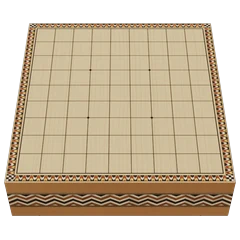
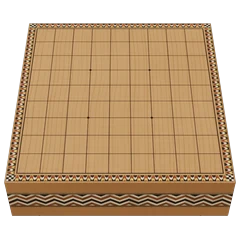
将棋3D盤：寄木細工の盤面を駒台と同じ桂の色味に
Claude-Session: https://claude.ai/code/session_01EiWRAWLV8eg6m15v5x8gee

diff --git a/atlas/lazy.js b/atlas/lazy.js
@@ -5,7 +5,7 @@
      AtlasLazy.has3D(id) / hasPlay(id) / hasRules(id) — known before loading; AtlasLazy.loaded(id) */
 (function () {
 'use strict';
-const G = {"reversi": ["games/reversi.js?v=36", "rules/reversi.js?v=14"], "shogi": ["models/shogi.js?v=36", "games/shogi-play.js?v=32", "games/shogi.js?v=14", "rules/shogi.js?v=21"], "chess": ["models/chess.js?v=16", "games/chess.js?v=15", "rules/chess.js?v=7"], "backgammon": ["models/backgammon.js?v=118", "games/backgammon.js?v=22", "rules/backgammon.js?v=11"], "gomoku": ["models/goban.js?v=14", "games/gomoku.js?v=12", "rules/gomoku.js?v=9"], "go": ["models/goban.js?v=14", "games/go.js?v=7", "rules/go.js?v=7"], "hex": ["models/goban.js?v=14", "models/hex.js?v=2", "games/hex.js?v=6", "rules/hex.js?v=6"], "tafl": ["games/tafl.js?v=15", "rules/tafl.js?v=7"], "xiangqi": ["models/xiangqi.js?v=4", "games/xiangqi.js?v=13", "rules/xiangqi.js?v=6"], "janggi": ["models/xiangqi.js?v=4", "models/janggi.js?v=3", "games/janggi.js?v=5", "rules/janggi.js?v=2"], "checkers": ["models/checkers.js?v=17", "games/checkers.js?v=8", "rules/checkers.js?v=4"], "ugolki": ["models/checkers.js?v=17", "models/ugolki.js?v=4", "games/ugolki.js?v=8", "rules/ugolki.js?v=8"], "morris": ["models/morris.js?v=7", "games/morris-pieces.js?v=2", "games/morris.js?v=7", "rules/morris.js?v=5"], "connect4": ["models/connect4.js?v=5", "games/connect4-tiles.js?v=1", "games/connect4.js?v=5", "rules/connect4.js?v=3"], "mancala": ["models/mancala.js?v=5", "games/mancala.js?v=10", "rules/mancala.js?v=4"], "dots": ["models/dots.js?v=4", "games/dots.js?v=9", "rules/dots.js?v=3"], "ur": ["models/ur-dice.js?v=2", "models/ur.js?v=4", "games/ur-kit.js?v=15", "games/ur.js?v=10", "rules/ur.js?v=15"], "fanorona": ["models/fanorona.js?v=4", "games/fanorona.js?v=6", "rules/fanorona.js?v=8"], "konane": ["models/konane.js?v=7", "games/konane.js?v=11", "rules/konane.js?v=5"], "amazons": ["models/amazons.js?v=7", "games/amazons.js?v=10", "rules/amazons.js?v=4"], "senet": ["models/ur-dice.js?v=2", "models/senet.js?v=10", "games/senet-kit.js?v=5", "games/senet.js?v=15", "rules/senet.js?v=7"], "agon": ["models/agon.js?v=4", "games/agon.js?v=11", "rules/agon.js?v=5"], "alquerque": ["models/alquerque.js?v=3", "rules/alquerque.js?v=6"], "ludo": ["../ludo/engine.js?v=3", "../ludo/house.js?v=7", "../ludo/board2d.js?v=7", "../ludo/board-art.js?v=3", "models/ludo.js?v=10", "games/ludo.js?v=28", "rules/ludo.js?v=3"], "carrom": ["../carrom/engine.js?v=6", "models/carrom.js?v=17", "games/carrom.js?v=37", "rules/carrom.js?v=8"], "crokinole": ["../carrom/engine.js?v=6", "games/carrom.js?v=37", "../crokinole/engine.js?v=3", "models/crokinole.js?v=12", "games/crokinole.js?v=14", "rules/crokinole.js?v=4"], "hockey": ["../hockey/engine.js?v=13", "models/hockey.js?v=8", "games/hockey.js?v=19", "rules/hockey.js?v=7"], "peg": ["../peg/engine.js?v=1", "models/peg.js?v=4", "rules/peg.js?v=4"]};
+const G = {"reversi": ["games/reversi.js?v=36", "rules/reversi.js?v=14"], "shogi": ["models/shogi.js?v=37", "games/shogi-play.js?v=32", "games/shogi.js?v=14", "rules/shogi.js?v=21"], "chess": ["models/chess.js?v=16", "games/chess.js?v=15", "rules/chess.js?v=7"], "backgammon": ["models/backgammon.js?v=118", "games/backgammon.js?v=22", "rules/backgammon.js?v=11"], "gomoku": ["models/goban.js?v=14", "games/gomoku.js?v=12", "rules/gomoku.js?v=9"], "go": ["models/goban.js?v=14", "games/go.js?v=7", "rules/go.js?v=7"], "hex": ["models/goban.js?v=14", "models/hex.js?v=2", "games/hex.js?v=6", "rules/hex.js?v=6"], "tafl": ["games/tafl.js?v=15", "rules/tafl.js?v=7"], "xiangqi": ["models/xiangqi.js?v=4", "games/xiangqi.js?v=13", "rules/xiangqi.js?v=6"], "janggi": ["models/xiangqi.js?v=4", "models/janggi.js?v=3", "games/janggi.js?v=5", "rules/janggi.js?v=2"], "checkers": ["models/checkers.js?v=17", "games/checkers.js?v=8", "rules/checkers.js?v=4"], "ugolki": ["models/checkers.js?v=17", "models/ugolki.js?v=4", "games/ugolki.js?v=8", "rules/ugolki.js?v=8"], "morris": ["models/morris.js?v=7", "games/morris-pieces.js?v=2", "games/morris.js?v=7", "rules/morris.js?v=5"], "connect4": ["models/connect4.js?v=5", "games/connect4-tiles.js?v=1", "games/connect4.js?v=5", "rules/connect4.js?v=3"], "mancala": ["models/mancala.js?v=5", "games/mancala.js?v=10", "rules/mancala.js?v=4"], "dots": ["models/dots.js?v=4", "games/dots.js?v=9", "rules/dots.js?v=3"], "ur": ["models/ur-dice.js?v=2", "models/ur.js?v=4", "games/ur-kit.js?v=15", "games/ur.js?v=10", "rules/ur.js?v=15"], "fanorona": ["models/fanorona.js?v=4", "games/fanorona.js?v=6", "rules/fanorona.js?v=8"], "konane": ["models/konane.js?v=7", "games/konane.js?v=11", "rules/konane.js?v=5"], "amazons": ["models/amazons.js?v=7", "games/amazons.js?v=10", "rules/amazons.js?v=4"], "senet": ["models/ur-dice.js?v=2", "models/senet.js?v=10", "games/senet-kit.js?v=5", "games/senet.js?v=15", "rules/senet.js?v=7"], "agon": ["models/agon.js?v=4", "games/agon.js?v=11", "rules/agon.js?v=5"], "alquerque": ["models/alquerque.js?v=3", "rules/alquerque.js?v=6"], "ludo": ["../ludo/engine.js?v=3", "../ludo/house.js?v=7", "../ludo/board2d.js?v=7", "../ludo/board-art.js?v=3", "models/ludo.js?v=10", "games/ludo.js?v=28", "rules/ludo.js?v=3"], "carrom": ["../carrom/engine.js?v=6", "models/carrom.js?v=17", "games/carrom.js?v=37", "rules/carrom.js?v=8"], "crokinole": ["../carrom/engine.js?v=6", "games/carrom.js?v=37", "../crokinole/engine.js?v=3", "models/crokinole.js?v=12", "games/crokinole.js?v=14", "rules/crokinole.js?v=4"], "hockey": ["../hockey/engine.js?v=13", "models/hockey.js?v=8", "games/hockey.js?v=19", "rules/hockey.js?v=7"], "peg": ["../peg/engine.js?v=1", "models/peg.js?v=4", "rules/peg.js?v=4"]};
 const F = {"reversi": {"t3": true, "play": true, "rules": true}, "shogi": {"t3": true, "play": true, "rules": true}, "chess": {"t3": true, "play": true, "rules": true}, "backgammon": {"t3": true, "play": true, "rules": true}, "gomoku": {"t3": true, "play": true, "rules": true}, "go": {"t3": true, "play": true, "rules": true}, "hex": {"t3": true, "play": true, "rules": true}, "tafl": {"t3": true, "play": true, "rules": true}, "xiangqi": {"t3": true, "play": true, "rules": true}, "janggi": {"t3": true, "play": true, "rules": true}, "checkers": {"t3": true, "play": true, "rules": true}, "ugolki": {"t3": true, "play": true, "rules": true}, "morris": {"t3": true, "play": true, "rules": true}, "connect4": {"t3": true, "play": true, "rules": true}, "mancala": {"t3": true, "play": true, "rules": true}, "dots": {"t3": true, "play": true, "rules": true}, "ur": {"t3": true, "play": true, "rules": true}, "fanorona": {"t3": true, "play": true, "rules": true}, "konane": {"t3": true, "play": true, "rules": true}, "amazons": {"t3": true, "play": true, "rules": true}, "senet": {"t3": true, "play": true, "rules": true}, "agon": {"t3": true, "play": true, "rules": true}, "alquerque": {"t3": true, "play": false, "rules": true}, "ludo": {"t3": true, "play": true, "rules": true}, "carrom": {"t3": true, "play": true, "rules": true}, "crokinole": {"t3": true, "play": true, "rules": true}, "hockey": {"t3": true, "play": true, "rules": true}, "peg": {"t3": true, "play": false, "rules": true}};
 const done = new Set(), loading = new Map(), ok = new Set();
 function load(src) {

diff --git a/shogi/index.html b/shogi/index.html
@@ -6466,7 +6466,7 @@ if (window.Online && Online.available) setInterval(() => { if (dock.on) chatStar
   const f = document.createElement('link'); f.rel = 'stylesheet'; f.href = 'https://fonts.googleapis.com/css2?family=RocknRoll+One&family=Zen+Maru+Gothic:wght@500;700;900&family=Fredoka:wght@600;700&display=swap'; document.head.appendChild(f);
   const load = src => new Promise((res, rej) => { const s = document.createElement('script'); s.src = src; s.onload = res; s.onerror = rej; document.body.appendChild(s); });
   if (window.AtlasLoading) { AtlasLoading.show(); setTimeout(() => AtlasLoading.hide(), 12000); }   // safety net
-  load('https://cdnjs.cloudflare.com/ajax/libs/three.js/r128/three.min.js').then(() => load('../atlas/img/tex/baked.js?v=1')).then(() => load('../atlas/table3d.js?v=149')).then(() => load('../atlas/tables3d.js?v=62')).then(() => load('../atlas/skin/common.js?v=71')).then(() => load('../atlas/models/shogi.js?v=36')).then(() => load('../atlas/skin/shogi.js?v=35'))
+  load('https://cdnjs.cloudflare.com/ajax/libs/three.js/r128/three.min.js').then(() => load('../atlas/img/tex/baked.js?v=1')).then(() => load('../atlas/table3d.js?v=149')).then(() => load('../atlas/tables3d.js?v=62')).then(() => load('../atlas/skin/common.js?v=71')).then(() => load('../atlas/models/shogi.js?v=37')).then(() => load('../atlas/skin/shogi.js?v=35'))
     .catch(() => { document.documentElement.classList.remove('atlas-skin'); if (window.AtlasLoading) AtlasLoading.hide(); });
 })();
 </script>

diff --git a/atlas/tools/shogi-tex.html b/atlas/tools/shogi-tex.html
@@ -394,7 +394,7 @@
         const o = yosegiPx(lx, ly, { kind: 'yabane', a: bw / 2, x0: 0, y0: 0 }, s); return o;
       }
       const edge = Math.min(Math.abs(x - b0), Math.abs(y - b0), Math.abs(W - b0 - x), Math.abs(H - b0 - y), Math.abs(x - b0 - bw), Math.abs(y - b0 - bw), Math.abs(W - b0 - bw - x), Math.abs(H - b0 - bw - y));
-      const o = straight(x, y, W, H, s, [232, 214, 174], [196, 166, 118], 48, .7, true);
+      const o = straight(x, y, W, H, s + 40, [214, 170, 122], [160, 110, 66], 44, .8, true);   // 桂, the same tone as the 駒台 (2026-11-11)
       if (edge < 2.2 && x > b0 - 2 && x < W - b0 + 2 && y > b0 - 2 && y < H - b0 + 2) return [70, 54, 40];
       return o;
     });

diff --git a/atlas/models/shogi.js b/atlas/models/shogi.js
@@ -185,7 +185,7 @@
     sakura: { top: 'top-sakura', side: 'sakura', stand: 'sakura', leg: ['#8a3a26', '#4a1c12'], bottom: 0x5a2a1c, line: 'rgba(48,20,10,.92)', bark: true },
   };
   const SH3 = (() => { try { return new URL('../../images/atlas/shogi3d/', (document.currentScript && document.currentScript.src) || location.href).href; } catch (e) { return '../images/atlas/shogi3d/'; } })();
-  const SH3V = '?v=3';
+  const SH3V = '?v=4';
   const lookOf = o => { const k = (o && o.look) || (X.BOARDS && X.BOARDS.shogi ? X.BOARDS.shogi.get() : 'kaya'); return LOOK[k] ? k : 'kaya'; };
   const imgs = {};
   function withImg(name, fn) {

diff --git a/atlas/index.html b/atlas/index.html
@@ -2002,7 +2002,7 @@ window.AtlasRgdTimer = function (btn, ms, alive) {
   }, 60);
 };</script>
 <script src="../shared/tapword.js?v=1"></script>
-<script src="lazy.js?v=62"></script>
+<script src="lazy.js?v=63"></script>
 <script src="puzzle-lines.js?v=1"></script>
 <script src="puzzles.js?v=12"></script>
 <script src="lessons3d.js?v=8"></script>
